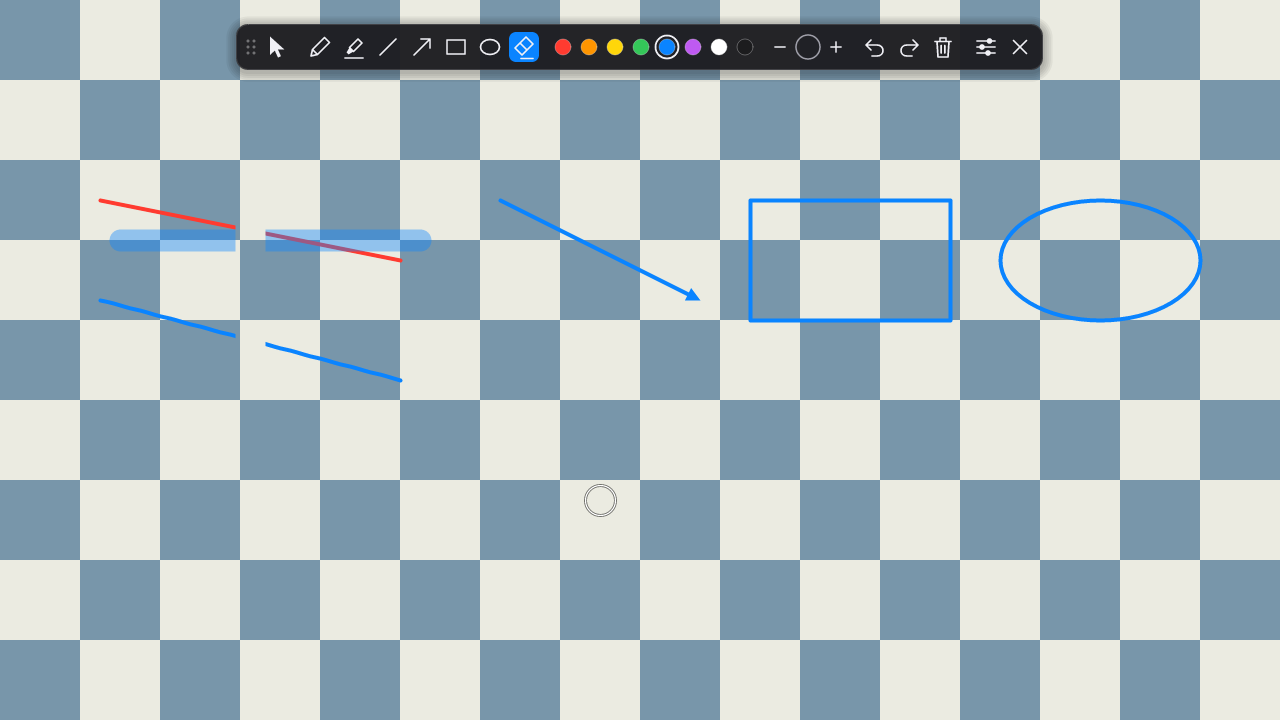
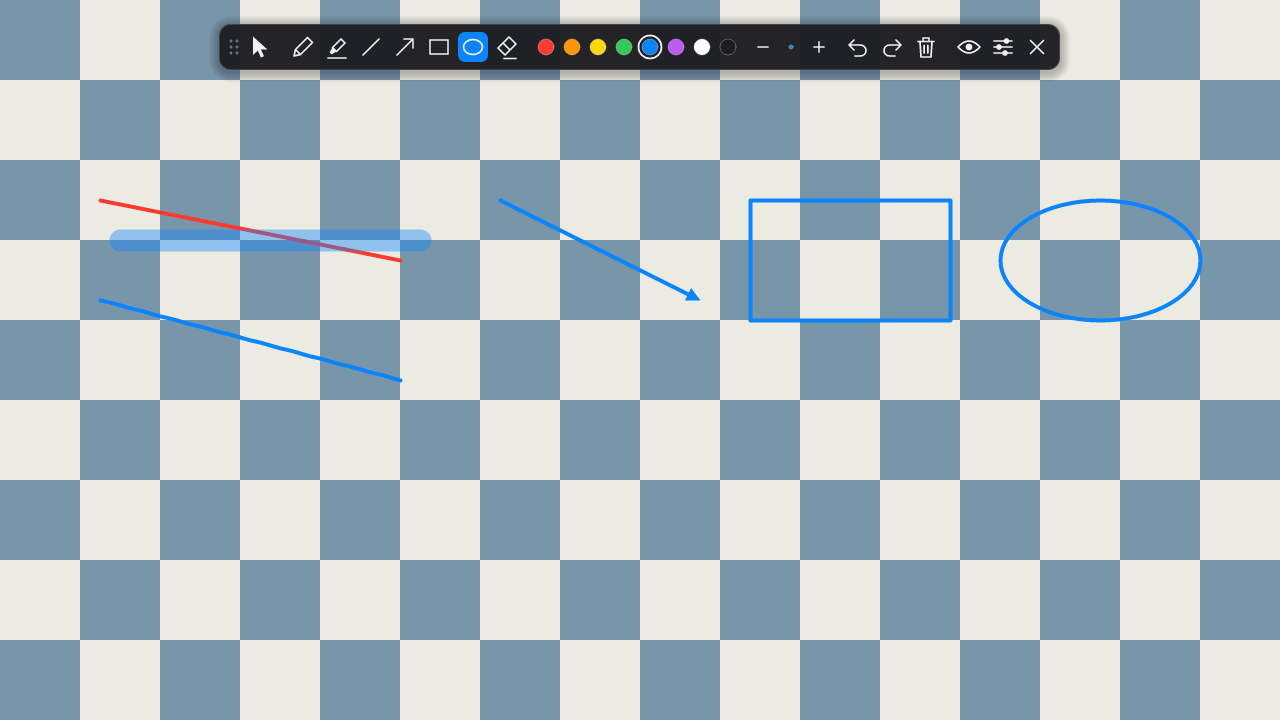
Add eye button that collapses the overlay
Clicking the eye hides the annotations and the toolbar, leaving a small
closed-eye button in its place; clicking that restores everything.

diff --git a/src/main.rs b/src/main.rs
@@ -75,6 +75,9 @@ struct App {
     tb_pos: (i32, i32),
     tb_pix: Pixmap,
     panel_pix: Option<Pixmap>,
+    /// Everything is hidden except a small eye button that brings it back.
+    collapsed: bool,
+    eye_pix: Option<Pixmap>,
     panel_open: bool,
     ui_dirty: bool,
     hover: Option<Item>,
@@ -276,6 +279,8 @@ impl App {
             tb_pos,
             tb_pix: Pixmap::new(1, 1).unwrap(),
             panel_pix: None,
+            collapsed: false,
+            eye_pix: None,
             panel_open: false,
             ui_dirty: true,
             hover: None,
@@ -337,7 +342,19 @@ impl App {
         R::new(r.x - m, r.y - m, r.w + 2 * m, r.h + 2 * m)
     }
 
+    /// Where the eye button sits while collapsed: over the toolbar's own eye, so
+    /// collapsing and expanding need no pointer movement.
+    fn eye_rect(&self) -> R {
+        let (tb, side) = (self.tb_rect(), self.ui.tb.1);
+        let hide = self.ui.item_rect(Item::Hide);
+        let x = tb.x + hide.x + hide.w / 2 - side / 2;
+        R::new(x.clamp(0, (self.sw - side).max(0)), tb.y, side, side)
+    }
+
     fn over_ui(&self, x: i32, y: i32) -> bool {
+        if self.collapsed {
+            return self.eye_rect().contains(x, y);
+        }
         self.tb_rect().contains(x, y) || (self.panel_open && self.panel_rect().contains(x, y))
     }
 
@@ -357,6 +374,10 @@ impl App {
     }
 
     fn damage_ui(&mut self) {
+        if self.collapsed {
+            self.damage(self.outer(self.eye_rect()));
+            return;
+        }
         self.damage(self.outer(self.tb_rect()));
         if self.panel_open {
             self.damage(self.outer(self.panel_rect()));
@@ -370,7 +391,9 @@ impl App {
     fn sync_input_shape(&self) {
         let rect = |r: R| Rectangle { x: r.x as i16, y: r.y as i16, width: r.w as u16, height: r.h as u16 };
         let mut rects = Vec::new();
-        if self.draw_mode {
+        if self.collapsed {
+            rects.push(rect(self.eye_rect()));
+        } else if self.draw_mode {
             rects.push(rect(R::new(0, 0, self.sw, self.sh)));
         } else {
             rects.push(rect(self.tb_rect()));
@@ -463,9 +486,28 @@ impl App {
         self.sync_keyboard_grab();
     }
 
+    /// Collapse to just the eye button (annotations and toolbar hidden), or expand again.
+    fn set_collapsed(&mut self, on: bool) {
+        if on == self.collapsed {
+            return;
+        }
+        if on {
+            self.set_draw(false);
+            if self.panel_open {
+                self.set_panel_open(false);
+            }
+        }
+        self.collapsed = on;
+        self.hover = None;
+        self.ui_dirty = true;
+        self.damage_all();
+        self.sync_input_shape();
+    }
+
     fn toggle_draw(&mut self) {
-        let on = !self.visible || !self.draw_mode;
+        let on = !self.visible || self.collapsed || !self.draw_mode;
         self.set_visible(true);
+        self.set_collapsed(false);
         self.set_draw(on);
     }
 
@@ -544,6 +586,8 @@ impl App {
             Item::Undo => self.undo(),
             Item::Redo => self.redo(),
             Item::Clear => self.clear(),
+            Item::Hide => self.set_collapsed(true),
+            Item::Show => self.set_collapsed(false),
             Item::Settings => self.set_panel_open(!self.panel_open),
             Item::Quit => self.quit = true,
         }
@@ -597,6 +641,13 @@ impl App {
                 return;
             }
             _ => return,
+        }
+
+        if self.collapsed {
+            if self.eye_rect().contains(x, y) {
+                self.set_collapsed(false);
+            }
+            return;
         }
 
         let panel = self.panel_rect();
@@ -676,7 +727,11 @@ impl App {
             }
             Drag::None => {
                 let tb = self.tb_rect();
-                let hover = self.ui.item_at(x - tb.x, y - tb.y).filter(|i| *i != Item::Grip);
+                let hover = if self.collapsed {
+                    self.eye_rect().contains(x, y).then_some(Item::Show)
+                } else {
+                    self.ui.item_at(x - tb.x, y - tb.y).filter(|i| *i != Item::Grip)
+                };
                 if hover != self.hover {
                     self.hover = hover;
                     self.ui_dirty = true;
@@ -813,6 +868,7 @@ impl App {
             let panel = self.panel_open.then(|| self.ui.draw_panel(&view));
             self.tb_pix = toolbar;
             self.panel_pix = panel;
+            self.eye_pix = self.collapsed.then(|| self.ui.draw_eye(self.hover == Some(Item::Show)));
             self.damage_ui();
         }
         for r in std::mem::take(&mut self.damage) {
@@ -837,9 +893,13 @@ impl App {
 
         let base = self.canvas.base.data();
         let stride = self.sw as usize * 4;
-        for (row, out) in buf.chunks_exact_mut(row_bytes).enumerate() {
-            let start = (r.y as usize + row) * stride + r.x as usize * 4;
-            out.copy_from_slice(&base[start..start + row_bytes]);
+        if self.collapsed {
+            buf.fill(0);
+        } else {
+            for (row, out) in buf.chunks_exact_mut(row_bytes).enumerate() {
+                let start = (r.y as usize + row) * stride + r.x as usize * 4;
+                out.copy_from_slice(&base[start..start + row_bytes]);
+            }
         }
 
         {
@@ -865,9 +925,13 @@ impl App {
                     pm.draw_pixmap(at.x - r.x, at.y - r.y, pix.as_ref(), &paint, Transform::identity(), None);
                 }
             };
-            blit(self.outer(self.tb_rect()), &self.tb_pix);
-            if let (true, Some(pix)) = (self.panel_open, &self.panel_pix) {
-                blit(self.outer(self.panel_rect()), pix);
+            if let (true, Some(pix)) = (self.collapsed, &self.eye_pix) {
+                blit(self.outer(self.eye_rect()), pix);
+            } else {
+                blit(self.outer(self.tb_rect()), &self.tb_pix);
+                if let (true, Some(pix)) = (self.panel_open, &self.panel_pix) {
+                    blit(self.outer(self.panel_rect()), pix);
+                }
             }
         }
 

diff --git a/src/ui.rs b/src/ui.rs
@@ -31,6 +31,10 @@ pub enum Item {
     Undo,
     Redo,
     Clear,
+    /// Collapse the overlay to a single eye button.
+    Hide,
+    /// The collapsed eye button itself; never part of the toolbar.
+    Show,
     Settings,
     Quit,
 }
@@ -85,7 +89,7 @@ impl Ui {
         spec.push(Spec::Sep);
         spec.extend([Item::Undo, Item::Redo, Item::Clear].map(|i| Spec::It(i, 34.0)));
         spec.push(Spec::Sep);
-        spec.extend([Item::Settings, Item::Quit].map(|i| Spec::It(i, 34.0)));
+        spec.extend([Item::Hide, Item::Settings, Item::Quit].map(|i| Spec::It(i, 34.0)));
 
         let (pad, btn) = (px(6.0), px(34.0));
         let mut x = pad;
@@ -118,6 +122,32 @@ impl Ui {
 
     pub fn item_at(&self, x: i32, y: i32) -> Option<Item> {
         self.items.iter().find(|(_, r)| r.contains(x, y)).map(|(i, _)| *i)
+    }
+
+    pub fn item_rect(&self, item: Item) -> R {
+        self.items.iter().find(|(i, _)| *i == item).map(|(_, r)| *r).unwrap_or_default()
+    }
+
+    /// The square button left on screen while the overlay is collapsed; `tb.1` pixels on a side.
+    pub fn draw_eye(&self, hover: bool) -> Pixmap {
+        let (s, m, side) = (self.s, self.margin, self.tb.1);
+        let mut pm = Pixmap::new((side + 2 * m) as u32, (side + 2 * m) as u32).expect("eye size");
+        backdrop(&mut pm, m as f32, side as f32, side as f32, 12.0 * s);
+        let btn = (34.0 * s).round() as i32;
+        let r = R::new(m + (side - btn) / 2, m + (side - btn) / 2, btn, btn);
+        if hover {
+            let inset = 2.0 * s;
+            let path = rrect(
+                r.x as f32 + inset,
+                r.y as f32 + inset,
+                r.w as f32 - 2.0 * inset,
+                r.h as f32 - 2.0 * inset,
+                7.0 * s,
+            );
+            fill(&mut pm, path.as_ref(), [255, 255, 255, 34]);
+        }
+        icon(&mut pm, Item::Show, r, s);
+        pm
     }
 
     fn row_y(&self, row: usize) -> f32 {
@@ -451,6 +481,20 @@ fn icon(pm: &mut Pixmap, item: Item, r: R, s: f32) {
                 poly(&mut st, &[(8.0, y), (26.0, y)], false);
                 fl.push_circle(knob, y, 2.8);
             }
+        }
+        Item::Hide => {
+            st.move_to(6.0, 17.0);
+            st.quad_to(17.0, 5.0, 28.0, 17.0);
+            st.quad_to(17.0, 29.0, 6.0, 17.0);
+            fl.push_circle(17.0, 17.0, 3.4);
+        }
+        Item::Show => {
+            // A closed eye: the lower lid with lashes.
+            st.move_to(6.0, 14.5);
+            st.quad_to(17.0, 26.0, 28.0, 14.5);
+            poly(&mut st, &[(10.0, 19.0), (8.0, 22.5)], false);
+            poly(&mut st, &[(17.0, 20.5), (17.0, 24.5)], false);
+            poly(&mut st, &[(24.0, 19.0), (26.0, 22.5)], false);
         }
         Item::Quit => {
             poly(&mut st, &[(10.5, 10.5), (23.5, 23.5)], false);

diff --git a/README.fa.md b/README.fa.md
@@ -22,6 +22,7 @@ magicpen یک لایهٔ شفاف روی کل دسکتاپ میگذارد. ا
 - هشت رنگ و اندازهٔ قابل تنظیم، با پیشنمایش اندازه در نوار ابزار
 - undo و redo، حتی برای «پاککردن صفحه»
 - عبور کلیک در حالت ماوس: کلیکها به پنجرههای زیر میرسند
+- جمعشدن به یک دکمهٔ کوچک چشم با یک کلیک، و برگشتن
 - میانبرهای سراسری که از هر برنامهای کار میکنند و در پنل تنظیمات قابل تغییرند
 - نگهداشتن `Shift` برای خط و فلش با زاویهٔ ۴۵ درجه، مربع و دایره
 - نرمکردن خطهای دستی
@@ -73,6 +74,7 @@ magicpen
 | دایرههای رنگی | انتخاب رنگ. |
 | `−` نقطه `+` | کوچک یا بزرگکردن ابزار فعلی. نقطه، اندازه و رنگ را نشان میدهد. |
 | undo، redo، سطل | برگرداندن، دوبارهانجامدادن، پاککردن صفحه. |
+| چشم | جمعکردن: نوشتهها و نوار ابزار مخفی میشوند و فقط یک دکمهٔ کوچک چشمِ بسته میماند. با کلیک روی همان دکمه همهچیز برمیگردد. |
 | اسلایدرها | باز کردن پنل تنظیمات. |
 | `×` | خروج. |
 
@@ -81,7 +83,9 @@ magicpen
 - **حالت ماوس** (پیشفرض). نوشتهها دیده میشوند، ولی فقط نوار ابزار به ماوس واکنش نشان میدهد.
 - **حالت نقاشی.** لایه، ماوس و کیبورد را در اختیار میگیرد. با `Esc`، دکمهٔ فلش ماوس یا میانبر تغییر حالت از آن خارج شو.
 
-نوشتهها فقط در حافظهاند: با مخفیکردن لایه میمانند و با خروج از برنامه از بین میروند.
+نوشتهها فقط در حافظهاند: با جمعکردن یا مخفیکردن لایه میمانند و با خروج از برنامه از بین میروند.
+
+دکمهٔ چشم با میانبر مخفیکردن فرق دارد: چشم یک دکمه روی صفحه باقی میگذارد، ولی میانبر لایه را کاملاً برمیدارد تا دوباره آن را بزنی. شروع نقاشی با میانبر تغییر حالت، لایهٔ جمعشده را هم باز میکند.
 
 ## میانبرهای کیبورد
 

diff --git a/README.md b/README.md
@@ -37,6 +37,7 @@ magicpen puts a transparent layer over the whole desktop. Pick a tool and draw o
 - Eight colours and adjustable sizes, with a live size preview in the toolbar
 - Undo and redo, including undo of "clear screen"
 - Click-through when you are not drawing: the mouse reaches the windows below
+- One-click collapse to a small eye button, and back
 - Global shortcuts that work from any application, rebindable in the settings panel
 - Hold `Shift` for 45° lines and arrows, squares and circles
 - Smoothed freehand strokes
@@ -88,6 +89,7 @@ A toolbar appears at the top of the screen. From left to right:
 | Colour dots | Select a colour. |
 | `−` dot `+` | Shrink or grow the current tool. The dot previews the size and colour. |
 | Undo, redo, bin | Undo, redo, clear the screen. |
+| Eye | Collapse: hide the annotations and the toolbar, leaving only a small closed-eye button. Click that button to bring everything back. |
 | Sliders | Open the settings panel. |
 | `×` | Quit. |
 
@@ -96,7 +98,9 @@ There are two modes:
 - **Mouse mode** (the default). Annotations stay visible, but only the toolbar reacts to the mouse. Everything else behaves as if magicpen were not there.
 - **Drawing mode.** The overlay takes the mouse and the keyboard. Leave it with `Esc`, the arrow button, or the toggle shortcut.
 
-Annotations live in memory only: hiding the overlay keeps them, quitting discards them.
+Annotations live in memory only: collapsing or hiding the overlay keeps them, quitting discards them.
+
+The eye button and the hide shortcut differ: the eye leaves a button on screen to click, while the shortcut removes the overlay completely until you press it again. Starting to draw with the toggle shortcut also expands a collapsed overlay.
 
 ## Keyboard shortcuts
 

diff --git a/CHANGELOG.md b/CHANGELOG.md
@@ -8,5 +8,6 @@ First release.
 - Pen, highlighter, line, arrow, rectangle, ellipse and eraser tools
 - Eight colours, adjustable sizes, undo and redo
 - Click-through mouse mode
+- Eye button that collapses the overlay to a single closed-eye button and restores it on click
 - Rebindable global shortcuts and a settings panel
 - Command-line control of the running instance
